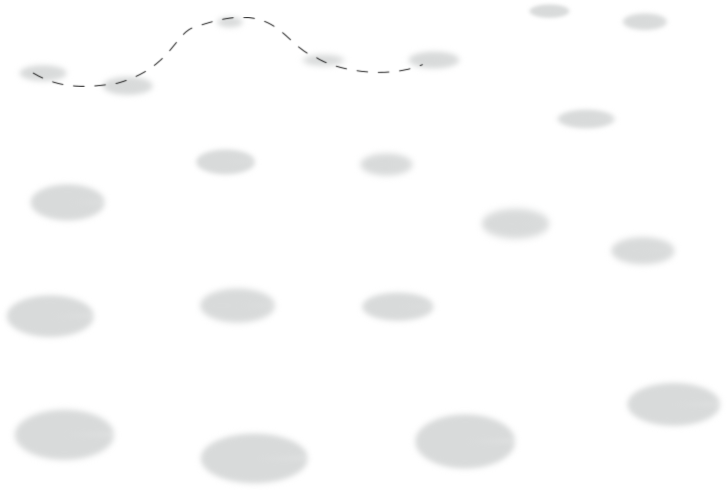
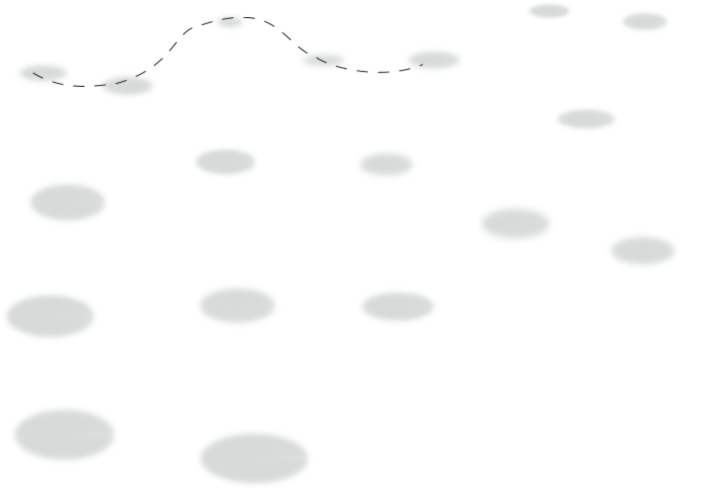
quitando el espacio en el mapa para los niveles que no se hicieron

Changed region(s): [[0.8473, 0.7653, 0.9986, 0.8878], [0.575, 0.8265, 0.7263, 0.9796]]

diff --git a/SeleccionDeNivel.js b/SeleccionDeNivel.js
@@ -324,19 +324,19 @@ function escribir(){
 		CrearBotonDeNivel(275, 465, 18);
 	}
 
-        if (NivelMaximo >= 19){
+        /*if (NivelMaximo >= 19){
 		text = AñadirTexto(480,425,"19",colorTexto,35);
 		CrearBotonDeNivel(465, 460, 19);
 	}
         if (NivelMaximo >= 20){
 		text = AñadirTexto(665,380,"20",colorTexto,35);
 		CrearBotonDeNivel(650, 415, 20);
-        }
+        }*/
 
 }
 
 function colocarInterrogaciones(){
-        if (NivelMaximo <= 19)
+        /*if (NivelMaximo <= 19)
                 signo20 = game.add.sprite(660,400,'signoInterrogacion');
                 //signo20.scale.setTo(0.8,0.8);
                 signo20.animations.add('saltar',null,13,true);
@@ -346,7 +346,7 @@ function colocarInterrogaciones(){
                 //signo19.scale.setTo(0.8,0.8);
                 signo19.animations.add('saltar',null,10,true);
                 signo19.animations.play('saltar');
-        }if (NivelMaximo <= 17){
+        }*/if (NivelMaximo <= 17){
                 signo18 = game.add.sprite(280,440,'signoInterrogacion');
                 //signo18.scale.setTo(0.8,0.8);
                 signo18.animations.add('saltar',null,13,true);

diff --git a/commons/Loading.js b/commons/Loading.js
@@ -13,8 +13,8 @@ function loadArchivoGuardado(){
     ArchivoDeGuardado = JSON.parse(localStorage.getItem('Guardado'));
     console.log("Cargando archivo");
     console.log(ArchivoDeGuardado);
-    //localStorage.removeItem('Guardado'); //se usa para borrar un guardado en particular
-    //localStorage.clear(); //se usa para borrar todos los guardados
+    localStorage.removeItem('Guardado'); //se usa para borrar un guardado en particular
+    localStorage.clear(); //se usa para borrar todos los guardados
     if (ArchivoDeGuardado != null){
         console.log("Cargando exitoso");
         NivelMaximo = ArchivoDeGuardado.Nivel;
